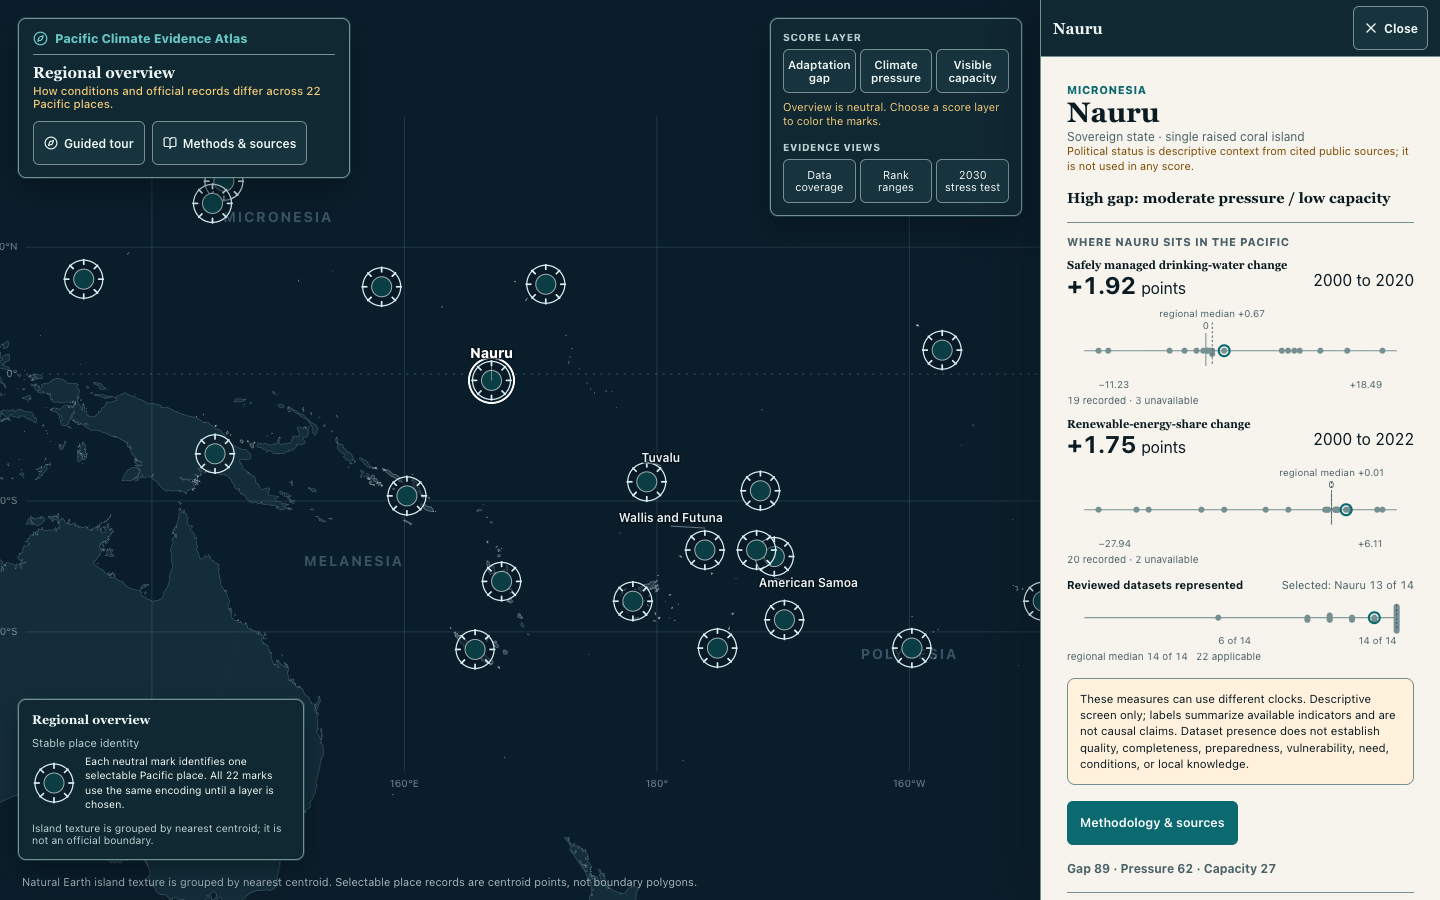
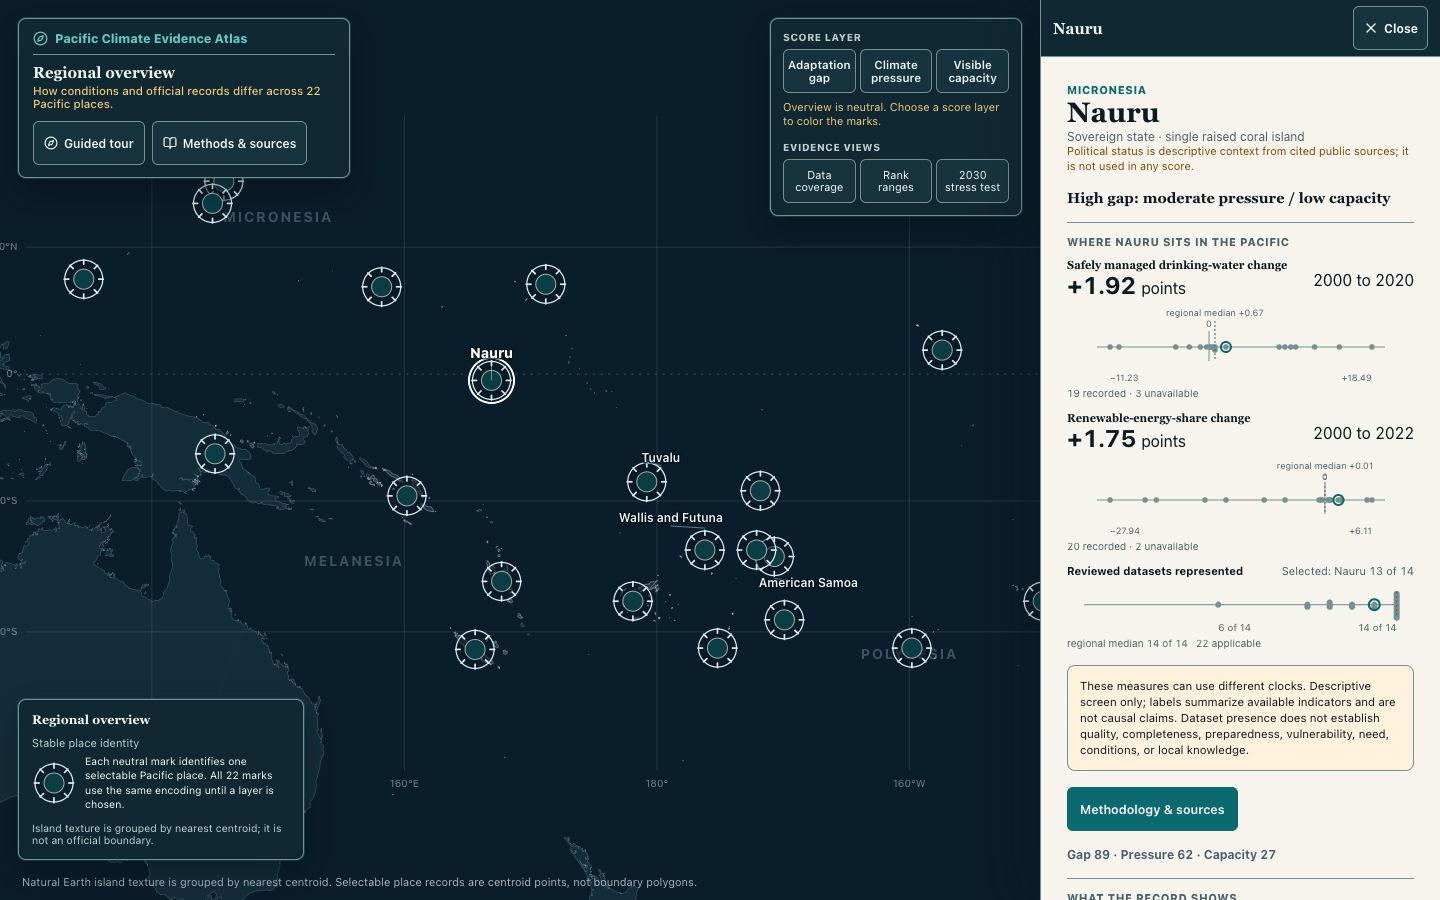
fix(app): TASK-108 bound continuous inspectors

diff --git a/app/src/components/panels/RegionalPositionLens.tsx b/app/src/components/panels/RegionalPositionLens.tsx
@@ -91,7 +91,7 @@ function inspectedLabel(observation: RegionalPositionObservation) {
 }
 
 function ContinuousStrip({ strip, name, clock }: { strip: RegionalPositionStrip; name: string; clock: string | null }) {
-  const sectionRef = useRef<HTMLElement>(null);
+  const plotRef = useRef<SVGSVGElement>(null);
   const [inspected, setInspected] = useState<RegionalPositionObservation | null>(null);
   const [sticky, setSticky] = useState(false);
   const extent = strip.extent;
@@ -111,7 +111,7 @@ function ContinuousStrip({ strip, name, clock }: { strip: RegionalPositionStrip;
 
   useEffect(() => {
     const clearOutside = (event: globalThis.PointerEvent) => {
-      if (!sectionRef.current?.contains(event.target as Node)) clearInspection();
+      if (!plotRef.current?.contains(event.target as Node)) clearInspection();
     };
     document.addEventListener("pointerdown", clearOutside, true);
     return () => document.removeEventListener("pointerdown", clearOutside, true);
@@ -140,7 +140,6 @@ function ContinuousStrip({ strip, name, clock }: { strip: RegionalPositionStrip;
 
   return (
     <section
-      ref={sectionRef}
       className="regional-lens__strip regional-lens__strip--continuous"
       data-regional-strip={strip.id}
     >
@@ -160,6 +159,7 @@ function ContinuousStrip({ strip, name, clock }: { strip: RegionalPositionStrip;
       </div>
       <span id={instructionsId} className="sr-only">Use Left and Right to inspect regional peers; Escape clears inspection.</span>
       {extent && scale && <svg
+        ref={plotRef}
         data-continuous-plot
         className="regional-lens__plot regional-lens__plot--continuous"
         viewBox="0 0 320 80"

diff --git a/app/src/components/panels/RegionalPositionLens.test.tsx b/app/src/components/panels/RegionalPositionLens.test.tsx
@@ -132,10 +132,12 @@ describe("RegionalPositionLens", () => {
     expect(css).toMatch(/\.regional-lens__selected\s*\{[^}]*fill:\s*none;/);
   });
 
-  it("uses the existing panel-boundary token for neutral peer marks and a 44px hit band", () => {
+  it("bounds the continuous hit surface while preserving visibility overflow", () => {
     const css = readFileSync(new URL("../../styles/base.css", import.meta.url), "utf8");
 
     expect(css).toMatch(/\.regional-lens__peer\s*\{[^}]*fill:\s*var\(--line\);/);
+    expect(css).toMatch(/\.regional-lens__plot\s*\{[^}]*overflow:\s*visible;/);
+    expect(css).toMatch(/\.regional-lens__plot--continuous\s*\{[^}]*max-width:\s*320px;[^}]*justify-self:\s*center;/);
     expect(renderLens("NR").match(/class="regional-lens__hit-band"[^>]*height="44" fill="transparent" style="pointer-events:all"/g) ?? []).toHaveLength(2);
   });
 });

diff --git a/app/src/styles/base.css b/app/src/styles/base.css
@@ -250,7 +250,8 @@ h1, h2, h3 { font-family: var(--font-serif); font-weight: 600; letter-spacing: 0
 .regional-lens__clock { float: right; }
 .regional-lens__label { display: flex; justify-content: space-between; gap: 8px; font-size: 11px; line-height: 1.35; }
 .regional-lens__label span { color: var(--ink-soft); text-align: right; }
-.regional-lens__plot { width: 100%; height: auto; }
+.regional-lens__plot { width: 100%; height: auto; overflow: visible; }
+.regional-lens__plot--continuous { max-width: 320px; justify-self: center; }
 .regional-lens__axis { stroke: var(--line); stroke-width: 1; }
 .regional-lens__peer { fill: var(--line); }
 .regional-lens__selected { fill: none; stroke: var(--accent); stroke-width: 2; }

diff --git a/scripts/check_app_bundle_budget.py b/scripts/check_app_bundle_budget.py
@@ -9,9 +9,9 @@ ASSETS_DIR = ROOT / "app" / "dist" / "assets"
 
 # TASK-056 accepted JS baseline was 1,018,827 bytes, below the original cap.
 MAX_JS_BYTES = 1_050_000
-# TASK-056 accepted CSS baseline was 93,895 bytes (above the original 92,000 cap).
-# The 95,000-byte cap is 1.18% above that measured baseline to allow release noise.
-MAX_CSS_BYTES = 95_000
+# TASK-108 approved a provisional internal regression threshold after the clean
+# continuous-inspector implementation crossed the prior 95,000-byte cap.
+MAX_CSS_BYTES = 97_500
 
 
 def check_assets(assets_dir: Path) -> list[str]:

diff --git a/tests/analysis/test_app_bundle_budget.py b/tests/analysis/test_app_bundle_budget.py
@@ -8,6 +8,9 @@ from scripts import check_app_bundle_budget
 
 
 class AppBundleBudgetTests(unittest.TestCase):
+    def test_uses_approved_task_108_css_threshold(self) -> None:
+        self.assertEqual(check_app_bundle_budget.MAX_CSS_BYTES, 97_500)
+
     def test_assets_one_byte_below_threshold_pass(self) -> None:
         with tempfile.TemporaryDirectory() as tmp:
             assets = Path(tmp)

diff --git a/context/TASKS.md b/context/TASKS.md
@@ -2533,10 +2533,10 @@ Allowed statuses: `pending`, `in-progress`, `in-review`, `needs-fix`, `blocked`,
 - Acceptance criteria: The selected water/renewable value is the visual entry point and remains visible without interaction; peer inspection reports exact data and clock without navigation or rank language; the teal selected mark never transfers; one focus stop per strip, 44px touch band, polite inspector update, independent scales, no horizontal overflow, no new dependency/state/route, and independent review pass.
 - Verification commands: npm --prefix app run test -- RegionalPositionLens.test.tsx regionalPositionModel.test.ts; npm --prefix app run test; npm --prefix app run build; python scripts/check_app_bundle_budget.py; python scripts/validate_task_statuses.py; python scripts/check_secrets.py; git diff --check
 - Manual QA: Quietly exercise NR, GU, PN, SB, WS, and PG at 1440x900, 390x844, and 844x390; inspect peers with mouse, touch emulation, and keyboard; verify the island, map camera, panel, URL, and history remain fixed.
-- QA notes: Pending.
-- Attempts: 0
+- QA notes: Attempt 1 review returned SPEC FAIL / QUALITY FAIL: the 844x390 continuous hit band rendered at 111.10px rather than approximately 44px; same-section taps outside the SVG did not clear a sticky inspection; the approved 97,500-byte provisional CSS threshold was not propagated to the checker/active context; durable evidence fields remained pending; and shared plot overflow removal reached frozen visibility rendering. Attempt 2 strict RED failed 1/9 lens tests on missing bounded/shared-overflow CSS, 1/3 checker tests on 95,000 versus approved 97,500, and the headless 844x390 probe measured a 111.10px band. Minimal GREEN caps only continuous plots at 320px, restores shared `overflow: visible`, scopes outside-pointer dismissal to the SVG, and updates the checker/context. Focused lens/model passed 17/17, checker tests 3/3, full frontend 131/131, and build passed. Quiet Chromium passed all 18 NR/GU/PN/SB/WS/PG × desktop/portrait/landscape cases: both rendered bands were exactly 44px; computed visibility overflow remained `visible`; same-section and outside taps, hover/touch/keyboard/Escape/blur/new-place reset, unavailable edges, Fiji/Tonga clocks, state immutability, zero overflow, and zero runtime errors passed. The bundle passes at CSS 95,135/97,500 and JS 1,040,365/1,050,000; versus frozen TASK-107, CSS is +293 raw/+72 gzip and JS is +4,613 raw/+1,238 gzip. Status (111), secrets, and whitespace pass. Three corrected captures remain under `artifacts/design/task-108/`; TASK-109 is untouched.
+- Attempts: 2
 - Max attempts: 3
-- Attempt log: 2026-08-02: TASK-108 moved `pending -> in-progress` after TASK-107 passed independent review. Scope is limited to the two continuous renderings, their focused tests, the existing regional-lens CSS section, and task/progress records; visibility's rendering stays unchanged until TASK-109. Strict RED/GREEN, full frontend/build verification, and the 18-case quiet headless matrix passed; the local bundle diagnostic alone reports the justified 49-byte CSS overage documented in QA notes. TASK-108 moved `in-progress -> in-review` for independent visualization/accessibility review.
+- Attempt log: 2026-08-02: TASK-108 moved `pending -> in-progress` after TASK-107 passed independent review. Scope is limited to the two continuous renderings, their focused tests, the existing regional-lens CSS section, and task/progress records; visibility's rendering stays unchanged until TASK-109. Strict RED/GREEN, full frontend/build verification, and the 18-case quiet headless matrix passed; the local bundle diagnostic alone reported a 49-byte CSS overage. TASK-108 moved `in-progress -> in-review`. Review returned SPEC FAIL / QUALITY FAIL on rendered landscape sizing, same-section outside-tap dismissal, checker/context propagation, durable evidence, and visibility overflow isolation. TASK-108 moved `in-review -> needs-fix -> in-progress` for attempt 2. Attempt 2 captured strict unit/checker/headless RED, applied the bounded repair, passed focused/full/build/bundle/status/secret/whitespace gates and the corrected 18-case matrix, then moved `in-progress -> in-review` for fresh independent acceptance.
 - Status: in-review
 
 ## TASK-109

diff --git a/context/HANDOVER.md b/context/HANDOVER.md
@@ -74,8 +74,8 @@ This writes the script-first EDA tables under `artifacts/tables/`, records `arti
 
 ## Next Recommended Work
 
-1. Implement TASK-107 first: extend only the pure regional-position model/tests with source-derived peer clocks and deterministic exact-value groups.
-2. Implement TASK-108 and TASK-109 sequentially because both own `RegionalPositionLens.tsx`, its tests, and the same small CSS section: continuous readout/inspection first, grouped visibility tally second. Commit and review each task separately.
+1. Complete independent re-review of TASK-108 attempt 2. Do not start TASK-109 until the continuous inspector repair is accepted.
+2. After TASK-108 acceptance, implement TASK-109's grouped visibility tally separately because it owns the same component/test/CSS seam.
 3. Freeze production for TASK-110's scientific, visual, responsive, interaction, and accessibility matrix; obtain owner acceptance before moving it to `done`.
 4. Have the owner complete TASK-095's still-outstanding Night Watch live review. TASK-100 begins only after both TASK-095 and TASK-110 are accepted.
 5. Treat deployment, public-URL durability, final disclosure, and submission-form actions as a separate release decision after TASK-100. Keep completed TASK-105 frozen as one static public asset.
@@ -84,7 +84,7 @@ This writes the script-first EDA tables under `artifacts/tables/`, records `arti
 
 - TASK-106 supersedes only the first lens's visual hierarchy and peer-inspection grammar. It keeps the existing panel and map selector, forbids peer navigation, and authorizes no dashboard shell, Place/Compare tabs, second drawer, histogram/KDE/posterior curve, new data output, dependency, renderer, route, or global state.
 - The selected-place lens continues to use already loaded `Geo.regionalStory` fields. Water has 19 recorded and 3 unavailable places with one exact two-place tie; renewable share has 20 recorded and 2 unavailable with no tie; visibility covers all 22 places in six exact groups: 6:1, 10:2, 11:3, 12:2, 13:2, and 14:12. Water/renewable keep independent domains, zero references, descriptive medians, and per-observation clocks. Visibility becomes a grouped tally and omits its median because median=max=14. Missing values stay off-scale, and presence is not quality or preparedness.
-- Current built assets are 94,842-byte CSS and 1,035,371-byte JavaScript. The checker compares those raw files with 95,000/1,050,000-byte internal regression targets. The CSS number is not a Challenge rule: TASK-057 derived it from the 93,895-byte TASK-056 baseline plus 1.18% slack. Measure raw and gzip deltas, but do not compromise correctness or accessibility to preserve a few bytes; any justified checker change must be explicit and synchronized with active context.
+- Current built assets are 95,135-byte CSS and 1,040,365-byte JavaScript. The checker compares those raw files with provisional 97,500/1,050,000-byte internal regression targets. The CSS number is not a Challenge rule: TASK-108 explicitly approved the measured increase from the earlier 95,000-byte diagnostic after recording +293 raw/+72 gzip CSS bytes against frozen TASK-107. Correctness and accessibility remain primary; any future checker change must be measured, explicit, and synchronized with active context.
 - TASK-101 through TASK-104 are done. The batch source-reviewed all 22 political-status strings, added safe in-region map-failure handling, repaired live 880px breakpoint crossings, unified signed-number formatting, and removed only proven-dead plumbing. New Caledonia's time-sensitive status should be rechecked immediately before publication. None of the work changed the palette, figures, marks, data meaning, state, routes, renderer, or dependencies.
 - The accepted visual/story baseline was not redesigned. TASK-079–TASK-082 changed only panel navigation, handoff sizing/wording, responsive control placement, temporary copy, and selected-place evidence order.
 - TASK-079 through TASK-081 resolved diagnostic Back/Close/history, narrow-screen control overflow, and the place panel's missing regional water/renewable/visibility evidence. TASK-082 verified the combined product with 164/164 strict-headless assertions and 43 PNGs and received owner acceptance on 2026-07-20.

diff --git a/context/logs/Progress Log.md b/context/logs/Progress Log.md
@@ -1,5 +1,9 @@
 # Progress Log
 
+- Returned `TASK-108` attempt 2 to `in-review` after strict RED/GREEN and the corrected quiet headless matrix. RED failed 1/9 lens tests on absent bounded/shared-overflow CSS, 1/3 checker tests on the stale 95,000-byte threshold, and the 844x390 browser probe measured a 111.10px hit band. Minimal GREEN caps only continuous plots at 320px, restores the shared `overflow: visible`, scopes sticky dismissal to the SVG, and applies the approved 97,500-byte provisional CSS checker/context threshold. Focused lens/model passes 17/17, checker tests 3/3, full frontend 131/131, build and bundle pass. All 18 NR/GU/PN/SB/WS/PG × 1440x900/390x844/844x390 cases render both bands at exactly 44px, retain computed visible overflow on the frozen visibility SVG, and pass same-section/outside tap, pointer/touch/keyboard, state immutability, selection reset, zero overflow, and zero runtime errors. Assets are CSS 95,135 raw/15,739 gzip and JS 1,040,365 raw/291,813 gzip; TASK-107 deltas are +293/+72 and +4,613/+1,238 respectively. Status 111, secrets, whitespace, and three corrected captures pass; TASK-109 remains untouched. (AI tools used: Codex, Superpowers receiving-review/systematic-debugging/TDD/verification, cached Playwright Chromium headless shell, Ponytail.)
+
+- Returned `TASK-108` from independent SPEC FAIL / QUALITY FAIL to `needs-fix`, then started attempt 2 in `in-progress`. The repair is limited to bounding the short-landscape continuous plot near a 44px rendered hit band, making taps outside the SVG clear sticky inspection even inside the metric section, applying the already-approved 97,500-byte provisional CSS regression threshold across checker/current context, completing durable TASK-108 evidence, and restoring frozen visibility overflow behavior. Strict RED precedes production edits; no TASK-109 rendering, model, data, dependency, route, map, panel navigation, URL/history, or global state change is permitted. (AI tools used: Codex, Superpowers receiving-review/systematic-debugging/TDD/verification, Ponytail.)
+
 - Advanced `TASK-108` to `in-review` after strict RED/GREEN and quiet headless review. RED failed 7/9 focused lens assertions while the frozen visibility/bounds contracts stayed green; GREEN passes 17/17 focused and 131/131 full frontend tests. Water and renewable now lead with signed selected values or explicit unavailable states, own clocks/scales/zeroes/medians, bare endpoints, 44px-plus hit bands, and one polite pointer/touch/keyboard inspector each while the teal selected rings remain fixed. Cached Chromium/SwiftShader passed NR, GU, PN, SB, WS, and PG at 1440x900, 390x844, and 844x390 with zero overflow/runtime errors; hover/leave, sticky tap/outside tap, Left/Right, Escape, blur, selected-place reset, unavailable edges, Fiji/Tonga tie clocks, URL/history/map-selection/camera immutability, and three bounded captures passed. Build, 111 statuses, secrets, and whitespace pass. The local bundle diagnostic alone reports CSS 95,049/95,000 bytes (+207 raw/+54 gzip from TASK-107; 49 bytes over its documented non-product ceiling) while JS remains under at 1,040,365/1,050,000; readable existing-seam CSS was retained. Visibility remains frozen for TASK-109. (AI tools used: Codex, Superpowers TDD/systematic-debugging/verification, cached Playwright Chromium headless shell, Ponytail.)
 
 - Started `TASK-108` after TASK-107 approval. React/SVG remains the renderer; water and renewable energy gain the approved selected-value hierarchy, independent zero/median references, concise endpoints, and one local pointer/touch/keyboard inspector surface each. The selected island, map, panel, URL, history, visibility rendering, data, dependencies, and global state remain unchanged. (AI tools used: Codex, Superpowers subagent-driven development/TDD, Data Visualization guidance, Ponytail.)

diff --git a/context/PROJECT.md b/context/PROJECT.md
@@ -64,10 +64,11 @@ Official records across 22 Pacific geographies show no single shared path in saf
 | Artistic story rebuild | done | `TASK-049` through `TASK-055` cover concept approval, native scroll, five scenes, evidence marks, editorial figures, rank-band motion, and quieter exploration |
 | Simplification and readiness | done | `TASK-057` has zero Ruff, Semgrep, and OSV findings and passed independent Checker review |
 | Shareable URL state | verified locally | `mode`, `scene`, `layer`, `view`, `place`, and `outlook` parse/serialize safely with guarded history updates, app-owned reload scroll restoration, and no router |
-| App bundle regression guard | verified locally | JS 1,035,371 bytes; CSS 94,842 bytes. The 1,050,000/95,000-byte checker limits are internal uncompressed-asset regression targets, not Pacific DataViz Challenge rules; correctness and accessibility may justify an explicit measured limit update rather than byte-saving contortions. |
+| App bundle regression guard | verified locally | JS 1,040,365 bytes; CSS 95,135 bytes. The 1,050,000/97,500-byte checker limits are provisional internal uncompressed-asset regression targets, not Pacific DataViz Challenge rules; TASK-108 records the explicit measured CSS limit update. |
 
 ## Last Session Notes
 
+- Returned TASK-108 attempt 2 to independent review after bounding continuous plots at their 320-unit intrinsic width, restoring shared SVG overflow for frozen visibility, scoping sticky-inspection dismissal to the SVG surface, and synchronizing the approved 97,500-byte provisional CSS checker threshold. Strict RED captured the former 111.10px landscape band; GREEN passes focused 17/17, full frontend 131/131, build, bundle, 111 statuses, secrets, and whitespace. The 18-case quiet matrix now measures both bands at exactly 44px in every required place/viewport case and passes same-section/outside tap, pointer, touch, keyboard, selection reset, state immutability, computed visibility overflow, zero runtime errors, and zero horizontal overflow. Current built assets are 1,040,365-byte JS and 95,135-byte CSS; TASK-109 has not started.
 - Completed the context-only TASK-106 plan after owner approval of the readable regional-lens direction. Water and renewable energy keep independent continuous strips with prominent selected values, their own clocks/zero/median references, and one in-flow inspector line. Visibility changes to six exact tally groups because 12 of 22 places share 14/14; its redundant median-at-maximum tick is retired. Inspection is informational only and cannot change the chosen island, map, panel path, URL, or history. TASK-107 through TASK-110 are the sequential model, continuous UI, visibility UI, and frozen-QA batch; TASK-100 now waits for their accepted output. No production code, data, dependency, route, state, runtime asset, or standalone task file changed.
 - Closed TASK-105 after independent re-review returned SPEC PASS / QUALITY PASS with no findings. The checker confirmed exact SVG geometry and palette, correct task-note ownership, meaningful minimal tests, byte-identical publication, and no dependency/runtime/UI/data/story scope creep; Ponytail judged the implementation lean already.
 - Returned TASK-105 attempt 2 to independent review after restoring TASK-100's pending note and moving all favicon evidence under TASK-105. The strengthened ordered-path assertion failed on a deliberate `M2 12... -> M2 11...` mutation and passed after restoring the exact Lucide geometry. Focused 14/14, full frontend 129/129, build/publication parity, unchanged bundle, 106 statuses, secrets, and whitespace pass again.

diff --git a/context/DESIGN_BRIEF.md b/context/DESIGN_BRIEF.md
@@ -186,7 +186,7 @@ The optional Gap, Pressure, and Capacity line remains clearly modeled and subord
 
 Reuse `Geo.regionalStory` and the already loaded `Geo[]` collection. Extend the existing pure regional-position model and plain React/SVG component in place. The model may add per-observation clocks and deterministic exact-value groups; the component may keep small internal inspection state that never escapes the lens. Add no pipeline output, public-data field, API, D3/Visx dependency, renderer, router, reducer, global comparison state, or new dashboard shell.
 
-The current built CSS is 94,842 bytes and JavaScript is 1,035,371 bytes. The 95,000/1,050,000-byte values are preferred internal regression targets derived from earlier measured baselines, not Pacific DataViz Challenge rules. Delete and reuse styles when that leaves a clearer product, but do not weaken correctness, accessibility, or the approved composition to preserve a few raw bytes. If a clean change crosses a target, record raw and gzip deltas and update the checker plus active context explicitly; 97,500 CSS bytes remains the provisional review threshold, not an external ceiling. Minification tricks and obscured code are rejected.
+The current built CSS is 95,135 bytes and JavaScript is 1,040,365 bytes. The checker now uses 97,500/1,050,000-byte provisional internal regression thresholds, not Pacific DataViz Challenge rules. Relative to frozen TASK-107, TASK-108 adds 293 raw/72 gzip CSS bytes and 4,613 raw/1,238 gzip JavaScript bytes. Delete and reuse styles when that leaves a clearer product, but do not weaken correctness, accessibility, or the approved composition to preserve a few raw bytes. The CSS threshold update from 95,000 to 97,500 is an explicit measured allowance for the clean continuous-inspector implementation, not an external ceiling. Minification tricks and obscured code are rejected.
 
 ## Historical Implemented Direction: The Shape Of What We Know
 
